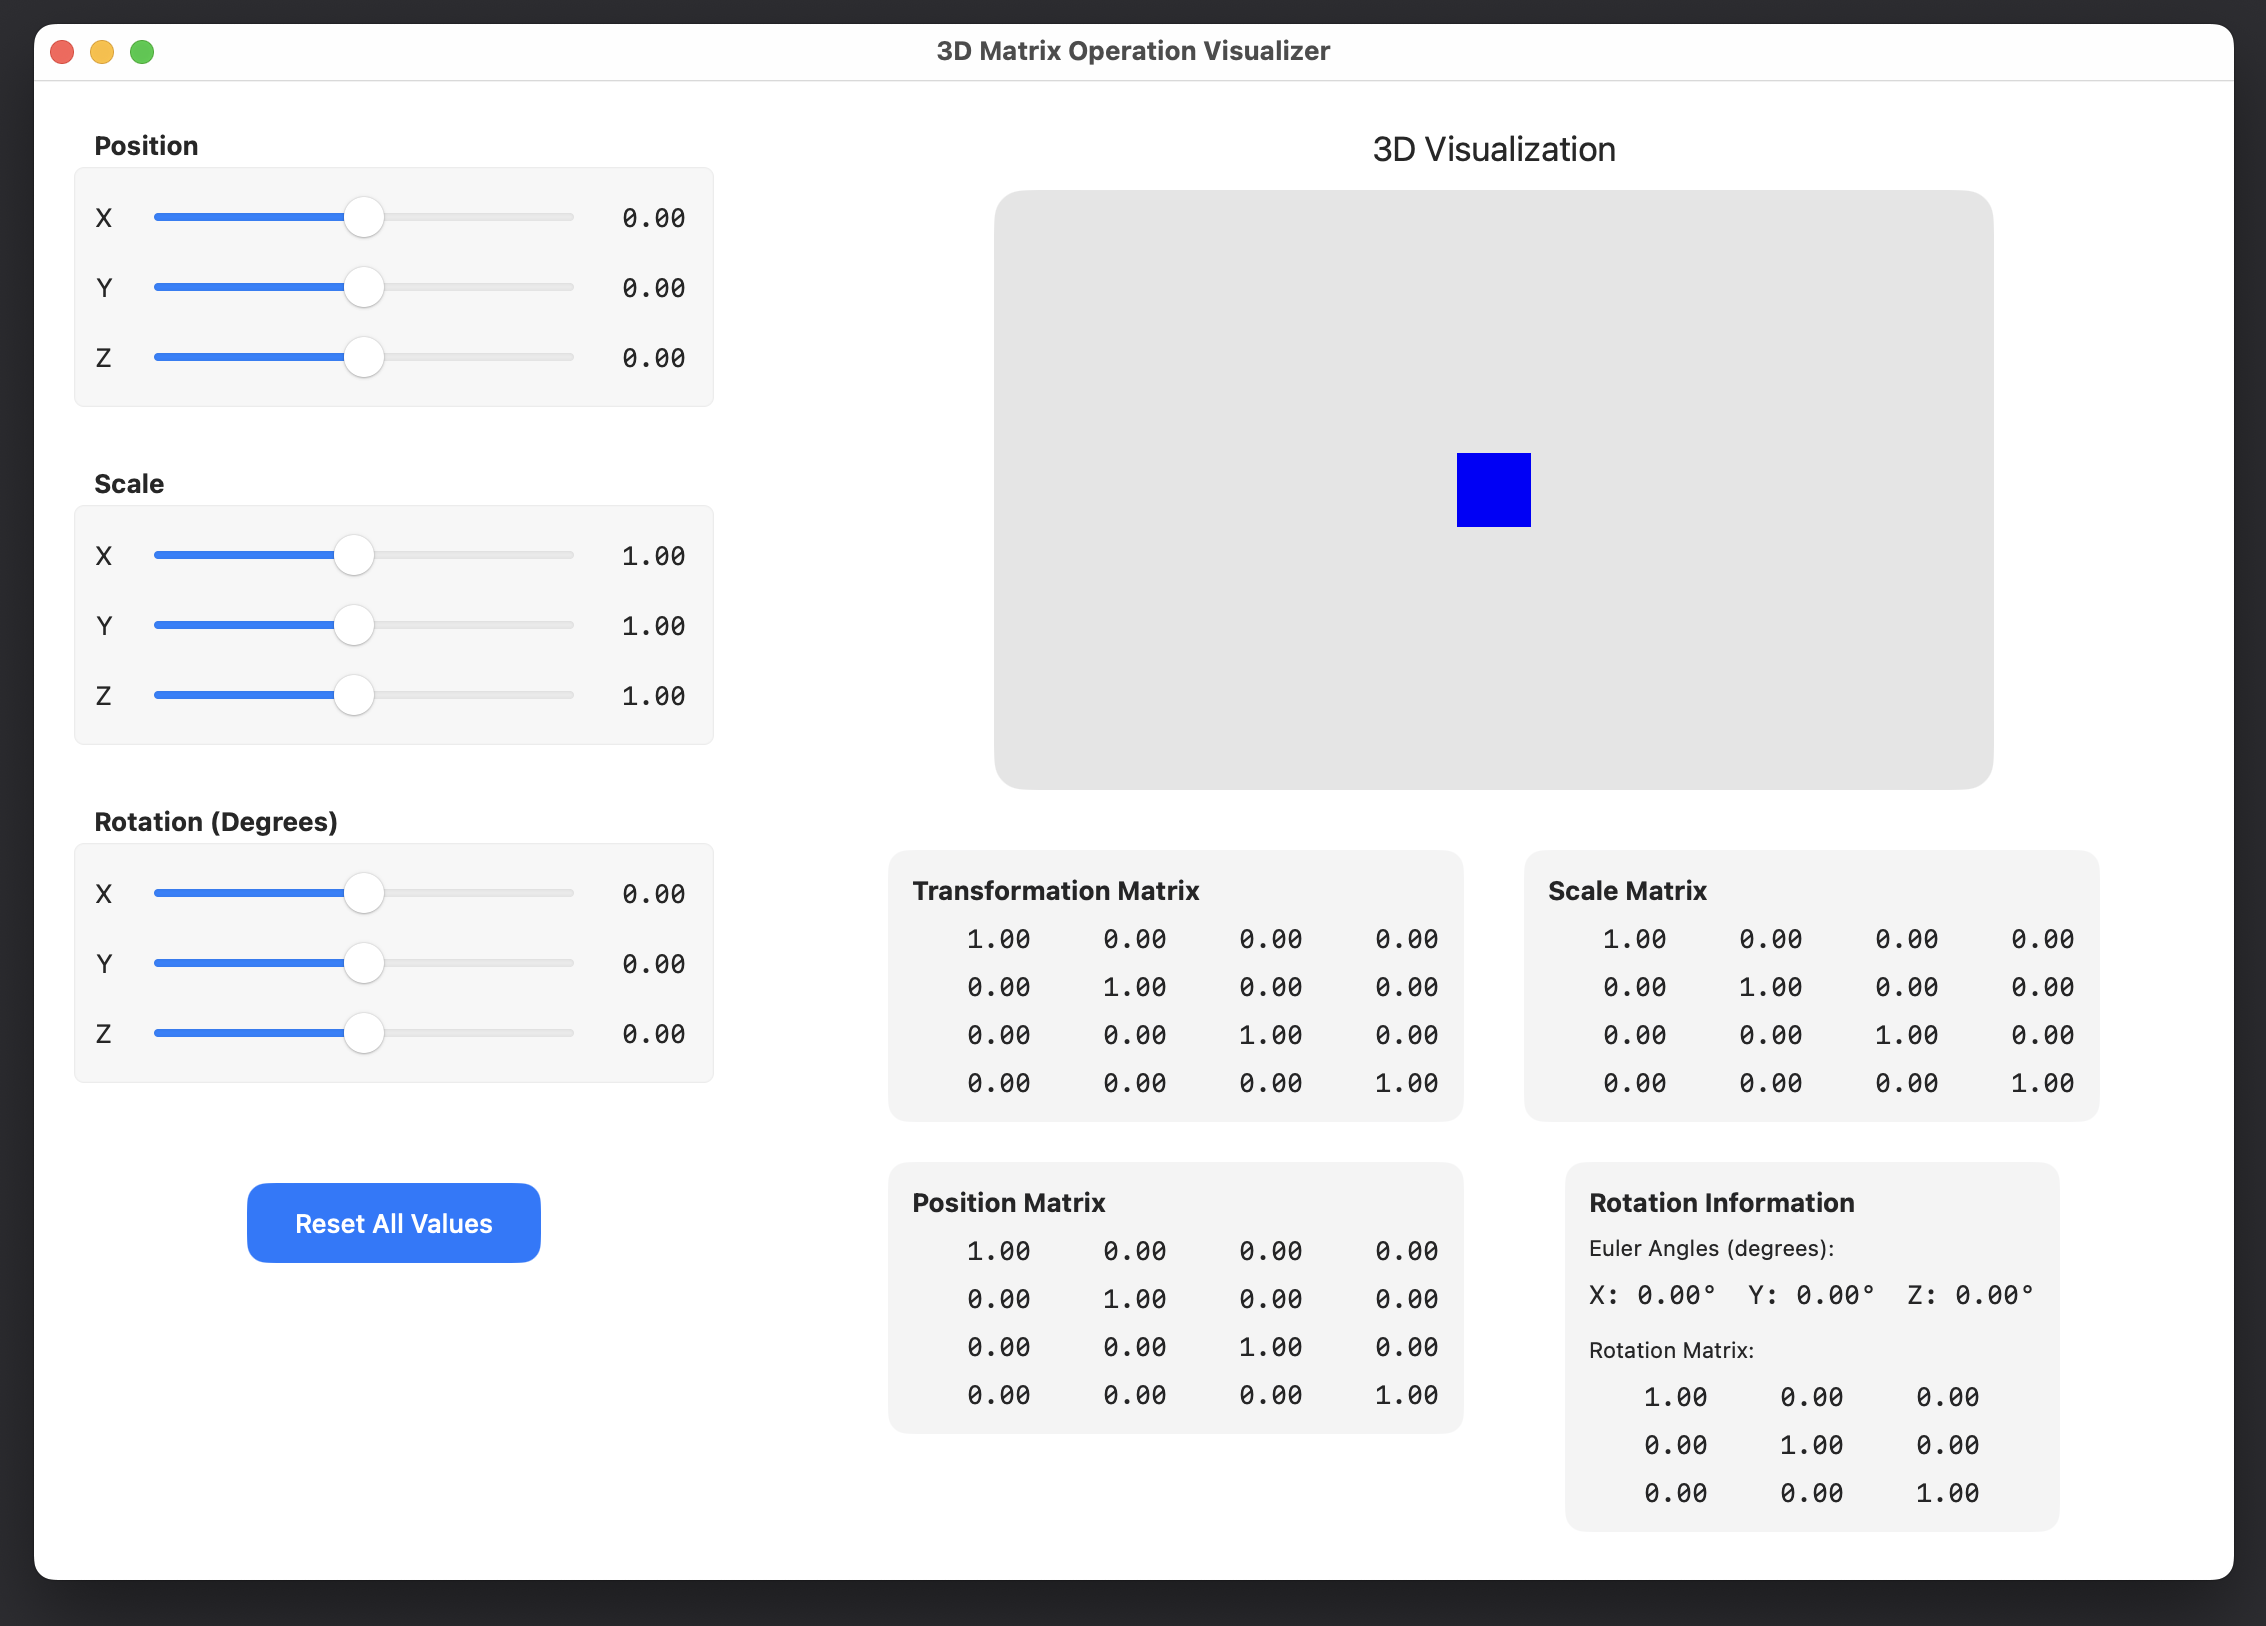
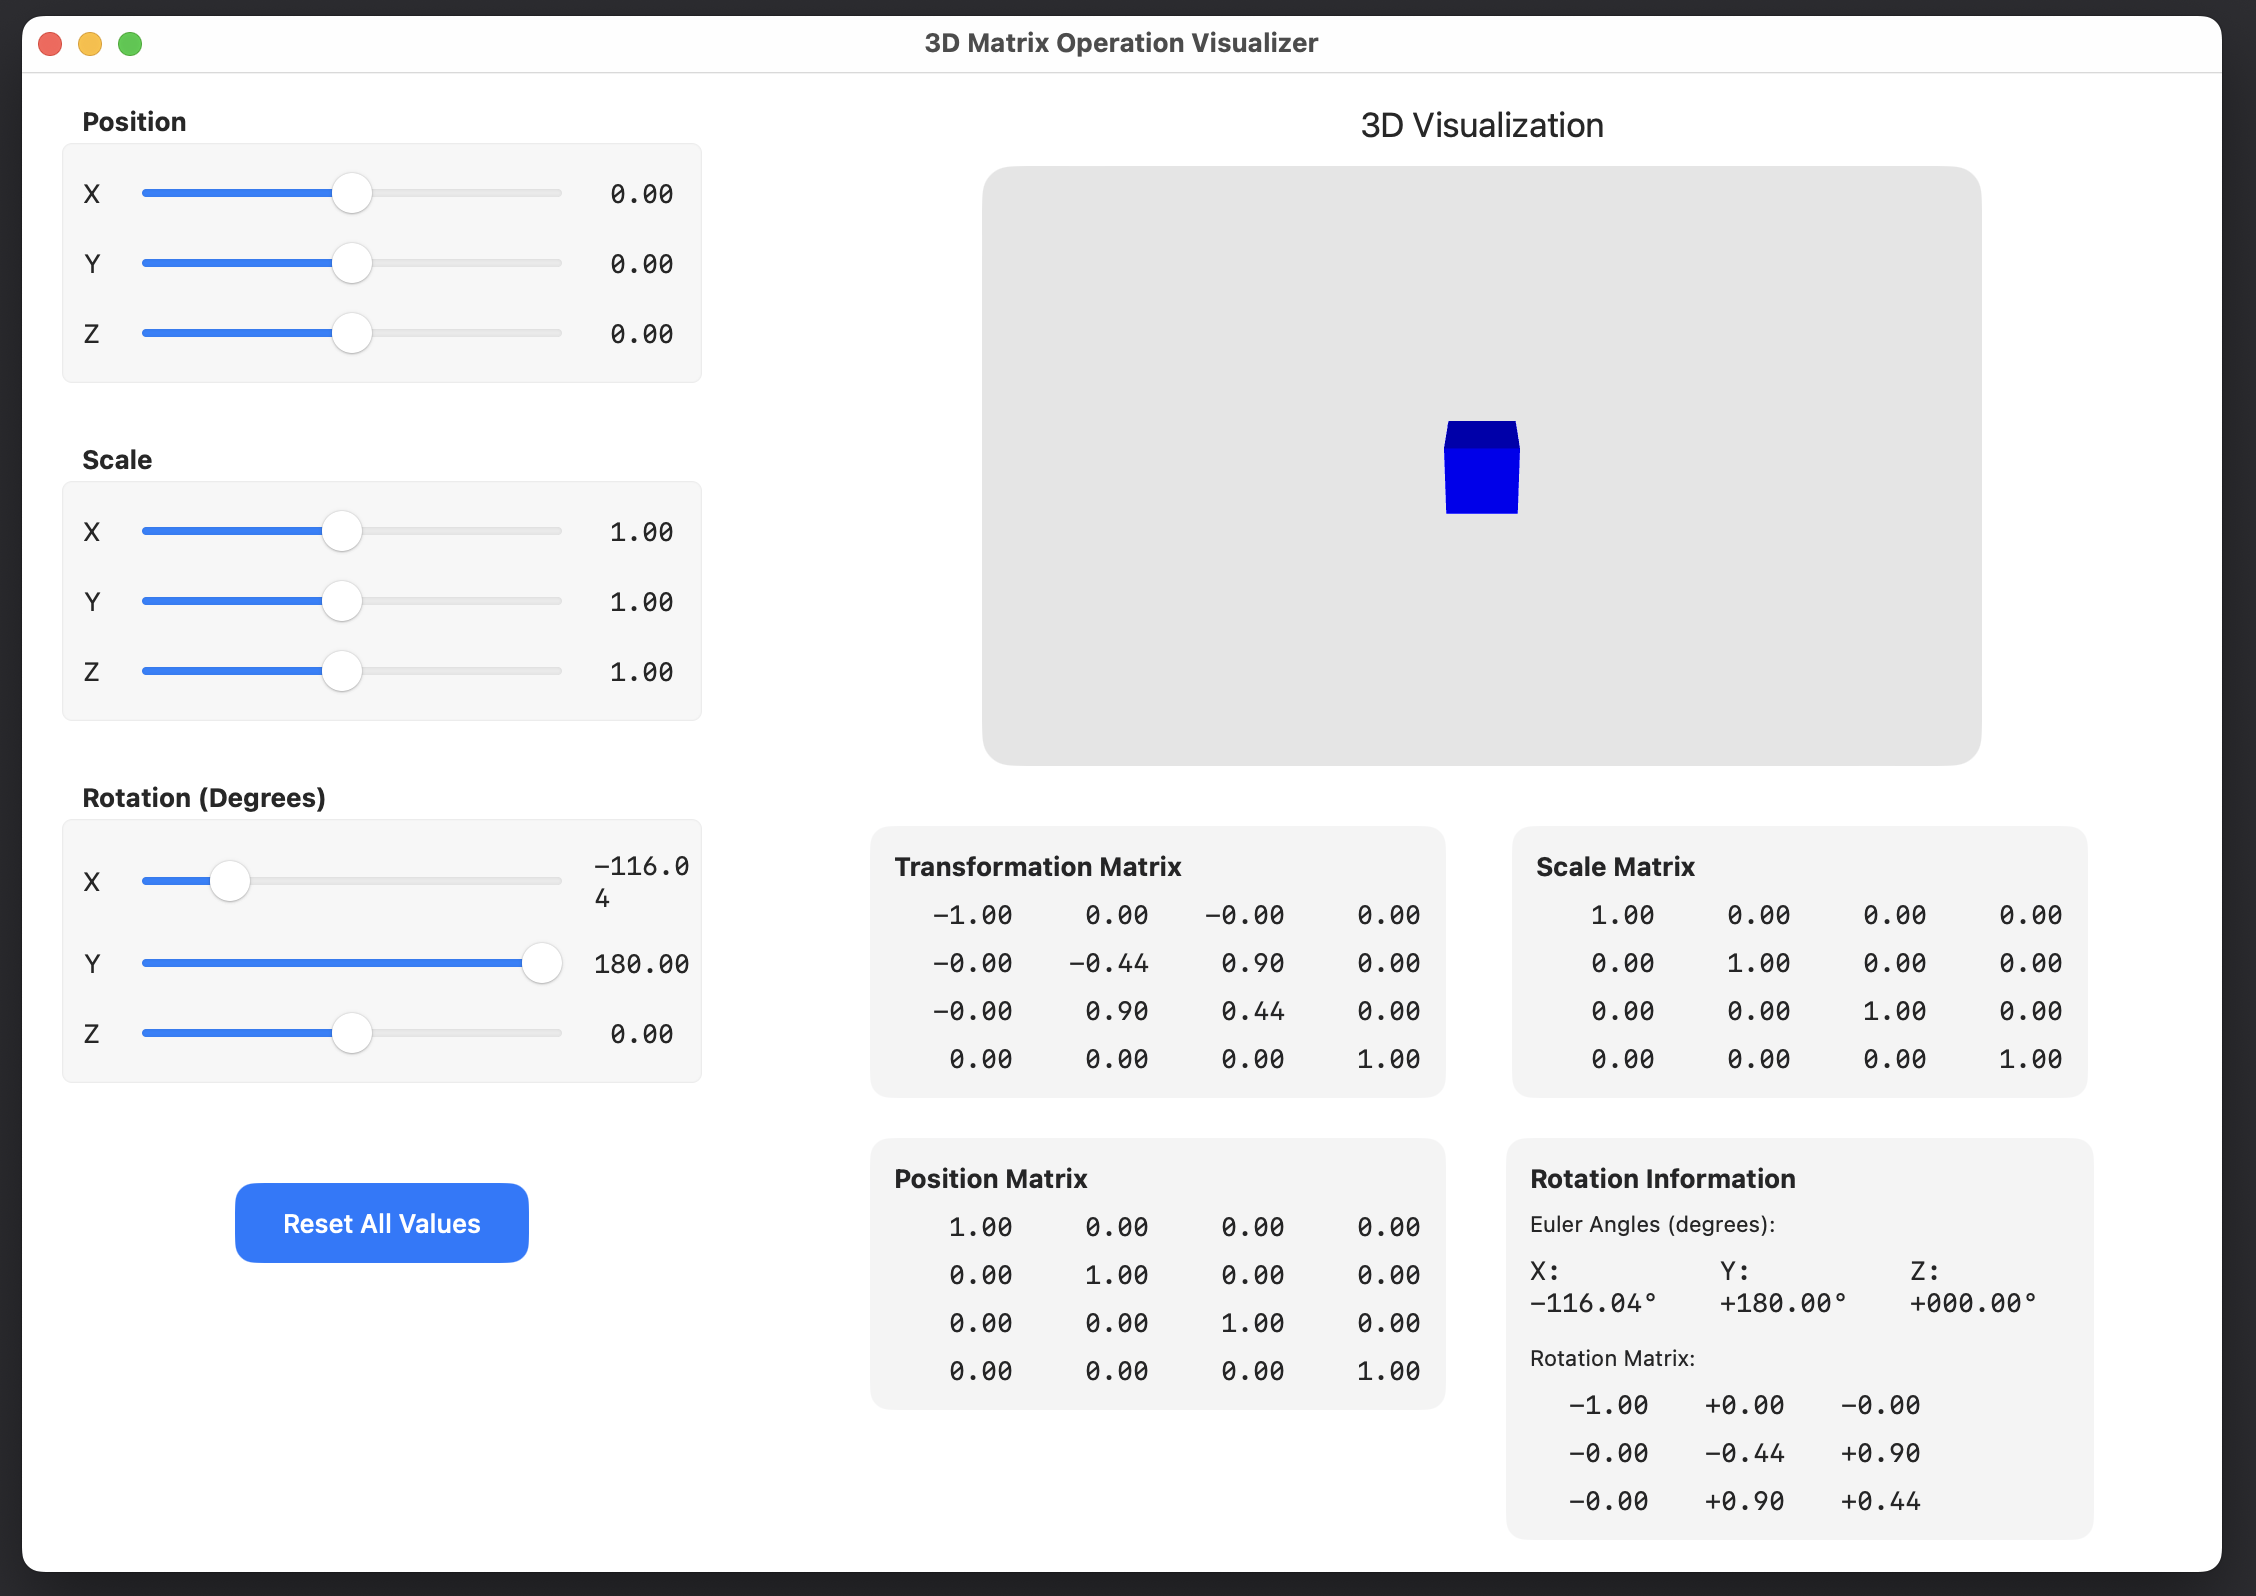
Fixed rotation UI

diff --git a/3D Matrix Operation Visualizer/MatrixTest/ContentView.swift b/3D Matrix Operation Visualizer/MatrixTest/ContentView.swift
@@ -150,18 +150,19 @@ struct CompactRotationView: View {
             Text("Euler Angles (degrees):")
                 .font(.subheadline)
             HStack(spacing: 15) {
-                Text("X: \(rotation.x, specifier: "%.2f")°")
-                Text("Y: \(rotation.y, specifier: "%.2f")°")
-                Text("Z: \(rotation.z, specifier: "%.2f")°")
+                ForEach(["X", "Y", "Z"], id: \.self) { axis in
+                    Text("\(axis): \(rotationValue(for: axis))")
+                        .frame(width: 80, alignment: .leading)
+                        .font(.system(.body, design: .monospaced))
+                }
             }
-            .font(.system(.body, design: .monospaced))
             Text("Rotation Matrix:")
                 .font(.subheadline)
                 .padding(.top, 5)
             ForEach(0..<3) { row in
                 HStack(spacing: 8) {
                     ForEach(0..<3) { col in
-                        Text(String(format: "%.2f", matrix.rotationMatrix[row][col]))
+                        Text(matrixValue(row: row, col: col))
                             .frame(width: 60, alignment: .trailing)
                             .font(.system(.body, design: .monospaced))
                     }
@@ -172,8 +173,22 @@ struct CompactRotationView: View {
         .background(Color.gray.opacity(0.1))
         .cornerRadius(10)
     }
+    
+    private func rotationValue(for axis: String) -> String {
+        let value: Float
+        switch axis {
+        case "X": value = rotation.x
+        case "Y": value = rotation.y
+        case "Z": value = rotation.z
+        default: value = 0
+        }
+        return String(format: "%+07.2f°", value)
+    }
+    
+    private func matrixValue(row: Int, col: Int) -> String {
+        String(format: "%+.2f", matrix.rotationMatrix[row][col])
+    }
 }
-
 
 struct RotationDisplayView: View {
     let matrix: simd_float4x4
